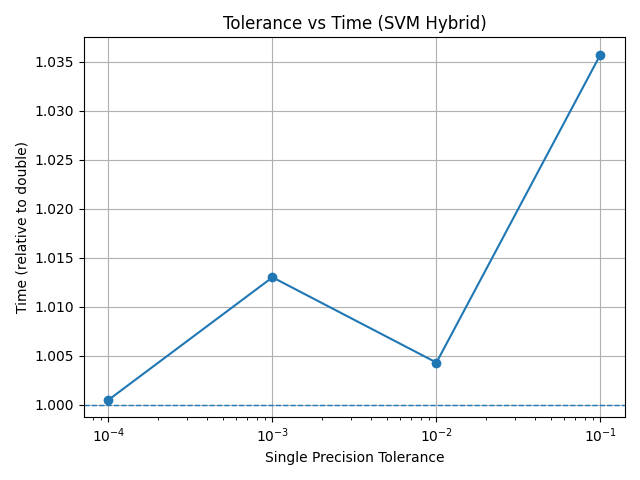
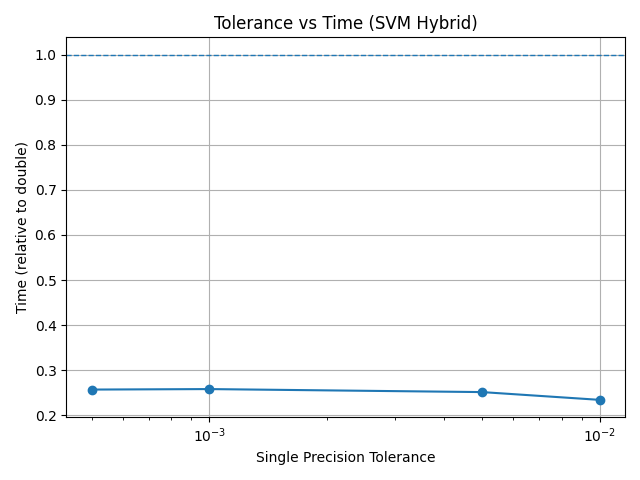
test

diff --git a/SVM_main.py b/SVM_main.py
@@ -1,6 +1,7 @@
 # SVM_main.py
 import pathlib, pandas as pd
-from aoclda.sklearn import skpatch; skpatch()
+from aoclda.sklearn import skpatch
+from visualisations.SVM_visualisations import SVMVisualizer; skpatch()
 from experiments.svm_experiments import SVMExperimentRunner
 from datasets.utils import generate_synthetic_data, synth_specs, svm_columns_A, svm_columns_B
 
@@ -18,13 +19,13 @@ def run_experiments():
         "n_repeats": 1,
         # A: fixed tol, vary subset cap (percent)
         "max_iter_A": 300,
-        "tol_fixed_A": 1e-3,               # very small (1e-16) makes SVC slower without benefit
-        "caps": [1, 2, 5, 10, 20],         # 1–20% Stage-1 subset
+        "tol_fixed_A": 1e-6,               # very small (1e-16) makes SVC slower without benefit
+        "caps": [1, 2, 5, 10, 20, 30, 50],         # 1–20% Stage-1 subset
         # B: vary Stage-1 tol; Stage-2 tol fixed
         "max_iter_B": 300,
         "tolerances": [1e-2, 5e-3, 1e-3, 5e-4],
         "tol_double_B": 1e-4,
-        "cap_B": 10,                       # keep probe size fixed in B (10%)
+        "cap_B": 100,                       # keep probe size fixed in B (10%)
     }
 
     runner = SVMExperimentRunner(config)
@@ -52,7 +53,7 @@ def run_experiments():
     return df_A, df_B
 
 if __name__ == "__main__":
-    run_experiments()
+    df_A, df_B = run_experiments()
     visualizer = SVMVisualizer()
     visualizer.plot_cap_vs_accuracy(df_A)
     visualizer.plot_cap_vs_time(df_A)
